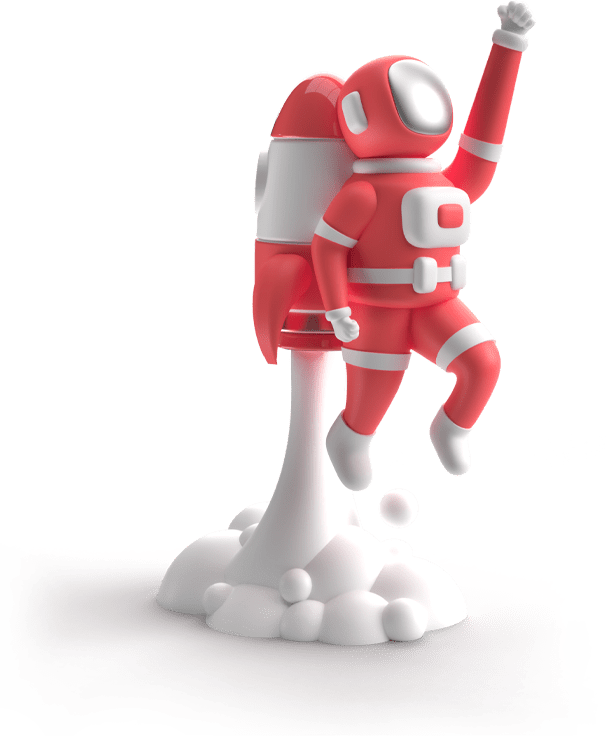
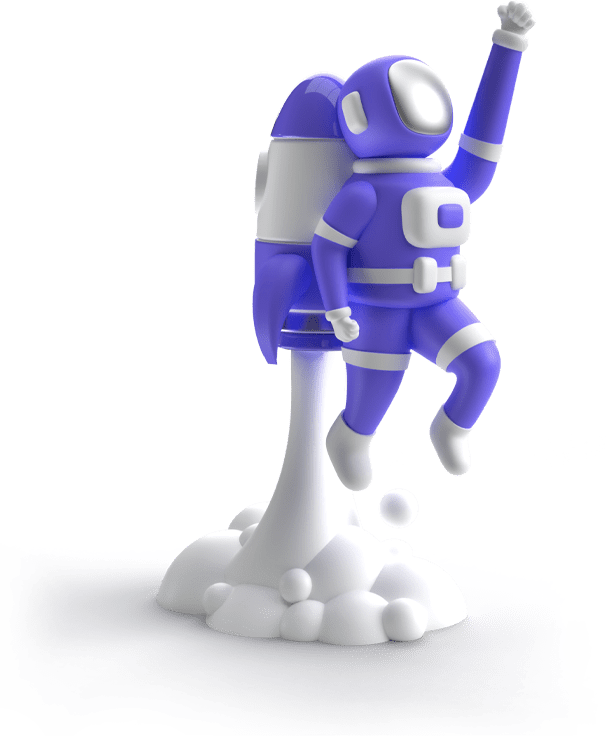
revision

Changed region(s): [[0.4062, 0.0625, 0.875, 0.5938]]

diff --git a/css/style.css b/css/style.css
@@ -143,7 +143,8 @@ header.fixed a.navbar-brand img.dark-logo {
   -o-transition: all .4s ease-in-out;
   -webkit-transition: all .4s ease-in-out;
   transition: all .4s ease-in-out;
-  justify-content: center
+  justify-content: center;
+  overflow: hidden;
 }
 
 .themeWhite {
@@ -821,7 +822,7 @@ section.serve {
   content: "";
   position: absolute;
   left: 0;
-  background: var(--secondary-color);
+  background: var(--theme-color);
   right: 0;
   width: 100%;
   border: transparent;
@@ -844,7 +845,7 @@ section.serve {
 }
 
 section.testimonials {
-  background: #121212;
+  background: #000000;
   padding-top: 80px;
   padding-bottom: 80px;
   background-size: COVER
@@ -855,7 +856,7 @@ section.testimonials h2 {
   margin-bottom: 20px;
   font-size: 2.9rem;
   font-weight: 700;
-  color: var(--secondary-color);
+  color: #fff;
 }
 
 .testimonials .owl-nav i {
@@ -872,7 +873,7 @@ section.testimonials h2 {
 }
 
 .testimonials .owl-nav i:hover {
-  color: var(--secondary-color);
+  color: var(--theme-color);
 }
 
 .owl-theme .owl-nav {
@@ -1073,7 +1074,7 @@ p.copyright-text {
 
 .copyright {
   padding-top: 20px;
-  background: var(--secondary-color);
+  background: var(--theme-color);
   margin-top: 50px;
   padding-bottom: 15px
 }
@@ -1916,12 +1917,9 @@ div#loader img {
 
 .dropdown-item:focus,
 .dropdown-item:hover {
-  color: #16181b;
+  color: #fff;
   text-decoration: none;
-  background-color: transparent;
-  background: var(--secondary-color);
-  -webkit-background-clip: text;
-  -webkit-text-fill-color: transparent
+  background-color: var(--secondary-color);    
 }
 
 .price-box .ftter a {
@@ -2822,7 +2820,7 @@ section.portfolio.inner-portfolio.pricing {
 
 section.technology {
   background-image: -moz-linear-gradient(-123deg, #565656 1%, #141414 100%);
-  background-image: -webkit-linear-gradient(-123deg, #565656 1%, #141414 100%);
+  background-image: -webkit-linear-gradient(-123deg, #858585 1%, #000000 100%);
   background-image: -ms-linear-gradient(-123deg, #565656 1%, #141414 100%);
   padding: 60px 0
 }
@@ -2866,7 +2864,7 @@ section.technology p {
 
 .techno-slider.owl-theme .owl-dots .owl-dot.active span,
 .techno-slider.owl-theme .owl-dots .owl-dot:hover span {
-  background: var(--secondary-color);
+  background: var(--theme-color);
 }
 
 img.banner-trust-pilot {

diff --git a/js/custom.js b/js/custom.js
@@ -1,3 +1,40 @@
+function replaceHash() {
+	document.querySelectorAll("a").forEach((a) => {
+		let href = a.getAttribute("href");
+		a.href = href ?
+			href.startsWith("#") && href.endsWith("#") ?
+			href.replace("#", "javascript:void(0)") :
+			href :
+			"javascript:void(0)";
+	});
+}
+
+replaceHash()
+
+function lenisSetup() {
+	const lenis = new Lenis({
+		duration: 1.5,
+		easing: (t) => Math.min(1, 1.001 - Math.pow(2, -10 * t)),
+		smooth: true,
+		mouseMultiplier: 1,
+	});
+
+	function raf(time) {
+		lenis.raf(time);
+		requestAnimationFrame(raf);
+	}
+	requestAnimationFrame(raf);
+	document.querySelectorAll('a[href^="#"]').forEach((anchor) => {
+		anchor.addEventListener("click", function (e) {
+			e.preventDefault();
+			lenis.scrollTo(this.getAttribute("href"));
+		});
+	});
+	lenis.scrollTo("top");
+}
+
+lenisSetup()
+
 $(window).scroll(function () {
     var sticky = $('#header'),
         scroll = $(window).scrollTop();
@@ -203,8 +240,7 @@ $(function () {
     }),
         
     AOS.init({
-		duration: 1e3,
-        delay: 50,
+		duration: 1200,        
 		disable: "mobile",
 	});
 

diff --git a/css/pagesstyle.css b/css/pagesstyle.css
@@ -62,6 +62,15 @@ header .contactBtn {
     font-weight: 500;
 }
 
+header .contactBtn:hover {
+    color: var(--secondary-color);
+}
+
+header .navbar-nav .qouteBtn:hover {
+    color: var(--secondary-color);
+    border-color: var(--secondary-color);
+}
+
 .FristBannerHeadeing {
     position: relative;
     z-index: 111111;
@@ -241,7 +250,7 @@ header .contactBtn {
 }
 
 .btnTheme:hover {
-    color: #fff;
+    color: #fff;    
 }
 
 .trustimage {
@@ -464,7 +473,7 @@ img#Inner {
 }
 
 h2.section-heading span {
-    color: var(--secondary-color);
+    color: var(--theme-color);
 }
 
 section.portfolio.pricing p {

diff --git a/thankyou.php b/thankyou.php
@@ -9,7 +9,7 @@ include 'include/header.php'; ?>
     }
     .thankyou-banner {
         text-align: center;
-        background-color: #bd2031;
+        background-color: var(--theme-color);
         display: -webkit-flex;
         display: inline-flex;
         -webkit-flex-direction: column;
@@ -23,12 +23,11 @@ include 'include/header.php'; ?>
         font-size: 22px;
         color: #fff;
         line-height: 26px;
-        background-size: cover;
-        font-family: 'Manrope', sans-serif;
+        background-size: cover;        
     }
     a.logo-thankyou {
         display: inline-block;
-        margin-bottom: 10px;
+        margin-bottom: 2rem;
     }
     .thankyou-banner h1 {
         font-size: 46px;
@@ -46,7 +45,7 @@ include 'include/header.php'; ?>
         letter-spacing: 1px;
         margin: 40px 0;
         background-color: white;
-        color: #bd2031;
+        color: var(--theme-color);
         text-decoration: none;
     }
     a.back-home {
@@ -59,20 +58,21 @@ include 'include/header.php'; ?>
         font-size: 24px;
     }
     a.logo-thankyou img {
-        width: 200px;
+        filter: brightness(0) invert(1);
+        width: 400px;
     }
 </style>
 <section class="thankyou-banner">
     <div class="container">
         <a href="index.php" class="logo-thankyou">
-            <img data-src="images/Cube-images/headerlogo.png" alt="headerlogo" class="img-fluid lazy">
+            <img src="images/Cube-images/headerlogo.png" alt="headerlogo" class="img-fluid">
         </a>
         <h1>Thank You for showing <br><span>confidence in our ability to deliver.</span></h1>
         <p>Delivering robust digital solutions to businesses globally;<br>infusing bold ideas with utmost commitment.</p>
         <a href="javascript:;" class="live-chat-thank chat" onclick="setButtonURL();">Let’s Chat</a>
         <div class="clearfix"></div>
         <a href="index.php" class="back-home">
-            <img data-src="images/back-home.png" alt="back-home" class="img-fluid lazy">
+            <img src="images/back-home.png" alt="back-home" class="img-fluid">
         </a>
     </div>
 </section>

diff --git a/include/footer.php b/include/footer.php
@@ -1,6 +1,6 @@
 <footer>
     <div class="container">
-        <div class="row" data-aos="fade-up">
+        <div class="row">
             <div class="col-md-5 col-lg-3">
                 <div class="footer-info">
                     <a href="index.php" class="footerLogo">                        
@@ -123,7 +123,7 @@
                                 </div>
                                 <div class="col-lg-12">
                                     <div class="fldset">
-                                        <button class="themeBtn" type="submit">Connect With Us</button>
+                                        <button class="themeBtn btn btnTheme" type="submit">Connect With Us</button>
                                     </div>
                                 </div>
                                 <div class="col-lg-12">

diff --git a/include/connected.php b/include/connected.php
@@ -28,7 +28,7 @@
                         <textarea class="form-control" id="exampleFormControlTextarea1" rows="6"
                             placeholder="Start writing message here" name="msg"></textarea>
                     </div>
-                    <button type="submit" class="themeBtn">Send Message</button>
+                    <button type="submit" class="themeBtn btn btnTheme">Send Message</button>
                     <div class="error mt-3 alert alert-danger text-left mb-0" style="display: none"></div>
                     <div class="success mt-3 alert alert-success text-left mb-0" style="display: none"></div>
                     <div class="loader" style="display: none">

diff --git a/website-design-development.php b/website-design-development.php
@@ -33,7 +33,7 @@ include 'include/header.php'; ?>
                     that you get the website according to your demand. Quality web design will help your firm
                     compete online by providing clients with the information they require about your business.</p>
                 <div class="ctaGroup">
-                    <a href="javascript:;" class="themeBtn" onclick="setButtonURL();">Chat With Us</a>
+                    <a href="javascript:;" class="themeBtn btn btnTheme" onclick="setButtonURL();">Chat With Us</a>
                     <a href="tel:+13465023520" class="themeBtn borderBtn">346-502-3520</a>
                 </div>
             </div>

diff --git a/wordpress-development.php b/wordpress-development.php
@@ -33,7 +33,7 @@ include 'include/header.php'; ?>
                     that our quest to create strong solutions and a pleasurable user experience has only just begun.
                     We are constantly updating our WordPress themes to enhance them in the long term.</p>
                 <div class="ctaGroup">
-                    <a href="javascript:;" class="themeBtn" onclick="setButtonURL();">Chat With Us</a>
+                    <a href="javascript:;" class="themeBtn btn btnTheme" onclick="setButtonURL();">Chat With Us</a>
                     <a href="tel:+13465023520" class="themeBtn borderBtn">346-502-3520</a>
                 </div>
             </div>

diff --git a/logo-design.php b/logo-design.php
@@ -37,7 +37,7 @@ include 'include/header.php'; ?>
                     or take shortcuts. Since a result, partnering with us will ensure that you receive precisely
                     what you want, as you will be at the heart of all we do.</p>
                 <div class="ctaGroup">
-                    <a href="javascript:;" class="themeBtn" onclick="setButtonURL();">Chat With Us</a>
+                    <a href="javascript:;" class="themeBtn btn btnTheme" onclick="setButtonURL();">Chat With Us</a>
                     <a href="tel:+13465023520" class="themeBtn borderBtn">346-502-3520</a>
                 </div>
             </div>

diff --git a/include/header.php b/include/header.php
@@ -11,12 +11,10 @@
 </head>
 
 <body>
-    <!-- Google Tag Manager (noscript) -->
-    <noscript><iframe src="https://www.googletagmanager.com/ns.html?id=GTM-M8KVFGC" height="0" width="0"
-            style="display:none;visibility:hidden"></iframe></noscript>
+    <!-- Google Tag Manager (noscript) -->    
     <!-- End Google Tag Manager (noscript) -->
     <!-- header -->
-    <header class="animatable bounceIn" id="header">
+    <header class="" id="header">
         <div class="container">
             <nav class="navbar navbar-expand-md navbar-dark">
                 <a class="navbar-brand" href="index.php">                    

diff --git a/branding.php b/branding.php
@@ -31,7 +31,7 @@ include 'include/header.php'; ?>
                     perceptions and creates connections. We will design a unique brand for you that communicates
                     clearly and sets you out from the competition.</p>
                 <div class="ctaGroup">
-                    <a href="javascript:;" class="themeBtn" onclick="setButtonURL();">Chat With Us</a>
+                    <a href="javascript:;" class="themeBtn btn btnTheme" onclick="setButtonURL();">Chat With Us</a>
                     <a href="tel:+13465023520" class="themeBtn borderBtn">346-502-3520</a>
                 </div>
             </div>

diff --git a/web-content-writing.php b/web-content-writing.php
@@ -32,7 +32,7 @@ include 'include/header.php'; ?>
                     finished within 24 hours. Whether you need a single piece of high-quality content generated fast
                     or want to scale it, our team can help.</p>
                 <div class="ctaGroup">
-                    <a href="javascript:;" class="themeBtn" onclick="setButtonURL();">Chat With Us</a>
+                    <a href="javascript:;" class="themeBtn btn btnTheme" onclick="setButtonURL();">Chat With Us</a>
                     <a href="tel:+13465023520" class="themeBtn borderBtn">346-502-3520</a>
                 </div>
             </div>
